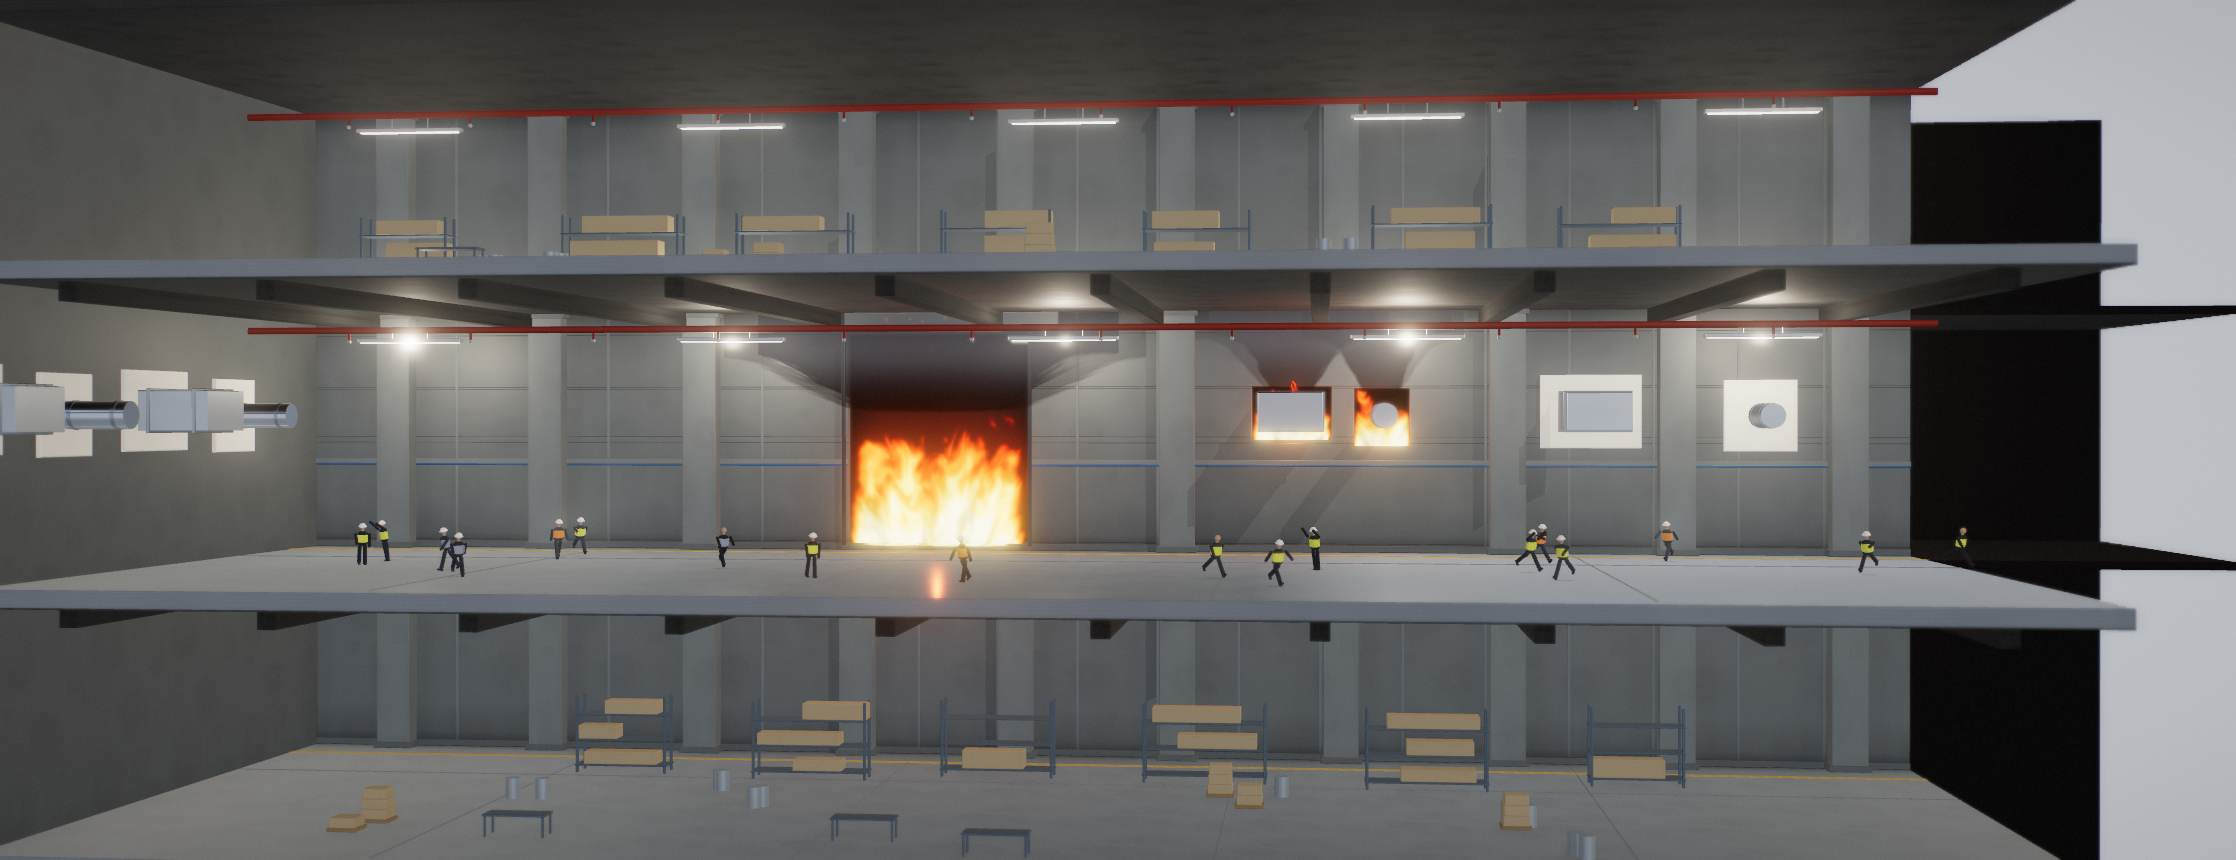
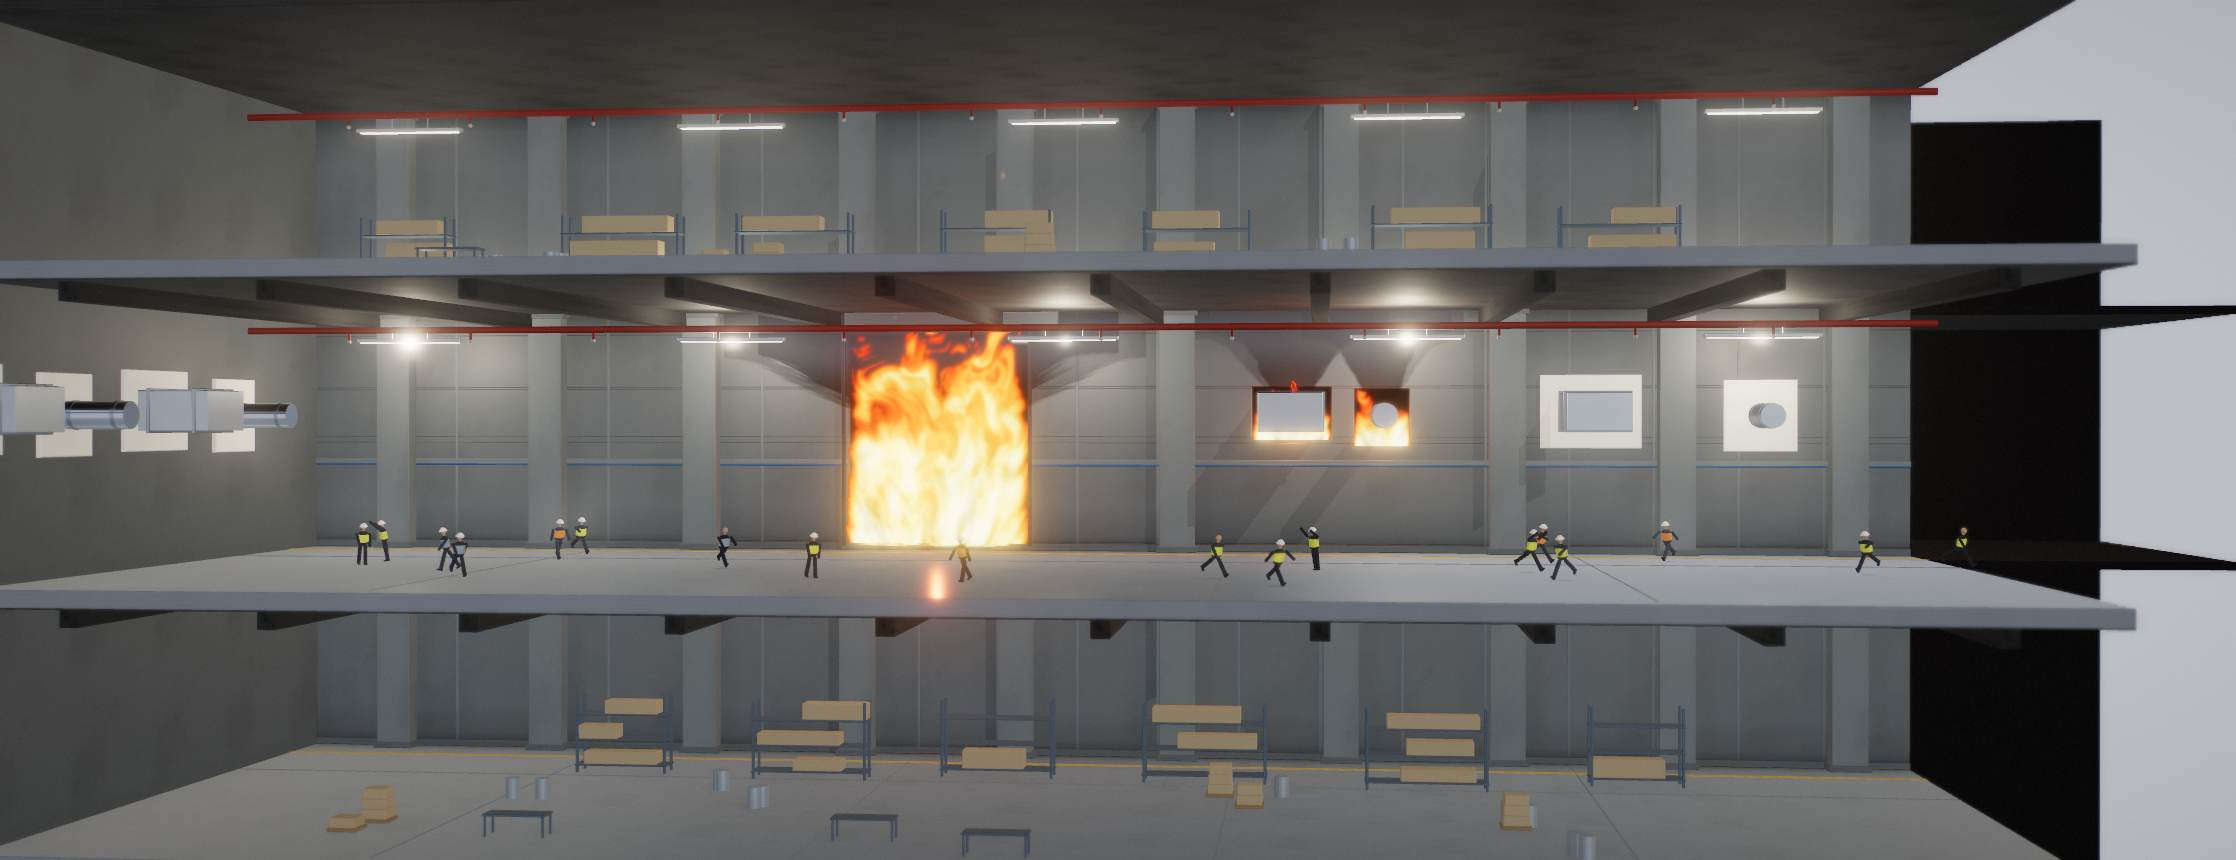
셔터 쪽 화재 규모 확대 — 개구부를 가득 채우게
사용자 요청: 셔터 있는 쪽 화재 규모만 키운다.

⚠ **boost 를 올리는 건 답이 아니다.** 뿌리에서 f 가 1 을 넘어 포화돼 전폭이 흰 띠가 되고
   결이 통째로 사라진다. 실제로 boost 1.95 로 한 번 그렇게 나왔다.

불꽃 형상 식은 f = (1-h)^taper * boost - turb * (turbA + h*turbB) 다.
"위까지 닿게" 하는 올바른 손잡이는 taper 와 turbB 다:
· taper 1.02 → 0.26 — 몸통이 높이에 따라 거의 안 줄어 위까지 남는다
· turbB 0.95 → 0.22 — 위에서 난류에 덜 깎인다
· boost 1.88 → 1.72 (오히려 낮춤), turbA 1.22 → 1.35 — 뿌리를 f≈0.95 에 묶어 결을 살린다
결과: 개구부(9.2×10.4m) 전체가 불로 차면서 뿌리는 안 탄다.

wpad 1.0 → 1.8 로 개구부 밖까지 혀가 넘치고, 화재 광원 62 → 84 로 주변 벽 반사도 키웠다.
taper/turbA/turbB 는 uniform 으로 빼서 개구부별로 따로 잡을 수 있다.

diff --git a/company-site/index.html b/company-site/index.html
@@ -21,15 +21,15 @@
 
     <link rel="icon" type="image/png" href="assets/images/doenc_mark.png">
     <!-- 히어로 첫 화면 — 화면 비율 단계별로 한 장만 받는다 (경계는 style.css / hero3d.js resize() 와 동일) -->
-    <link rel="preload" as="image" href="assets/images/hero-poster-w.jpg?v=20260805e" media="(min-aspect-ratio: 8/5)" fetchpriority="high">
-    <link rel="preload" as="image" href="assets/images/hero-poster-m.jpg?v=20260805e" media="(min-aspect-ratio: 6/5) and (max-aspect-ratio: 8/5)" fetchpriority="high">
-    <link rel="preload" as="image" href="assets/images/hero-poster-n.jpg?v=20260805e" media="(min-aspect-ratio: 4/5) and (max-aspect-ratio: 6/5)" fetchpriority="high">
-    <link rel="preload" as="image" href="assets/images/hero-poster-p.jpg?v=20260805e" media="(max-aspect-ratio: 4/5)" fetchpriority="high">
+    <link rel="preload" as="image" href="assets/images/hero-poster-w.jpg?v=20260805f" media="(min-aspect-ratio: 8/5)" fetchpriority="high">
+    <link rel="preload" as="image" href="assets/images/hero-poster-m.jpg?v=20260805f" media="(min-aspect-ratio: 6/5) and (max-aspect-ratio: 8/5)" fetchpriority="high">
+    <link rel="preload" as="image" href="assets/images/hero-poster-n.jpg?v=20260805f" media="(min-aspect-ratio: 4/5) and (max-aspect-ratio: 6/5)" fetchpriority="high">
+    <link rel="preload" as="image" href="assets/images/hero-poster-p.jpg?v=20260805f" media="(max-aspect-ratio: 4/5)" fetchpriority="high">
 
     <!-- 3D 모듈을 미리 받아둔다. 없으면 main.js → hero3d.js → three.module → three.core 로
          **네 번 순차 왕복**하느라 750KB 를 다 받을 때까지 포스터가 계속 떠 있는다.
          ⚠ href 는 실제 import 주소와 **글자 그대로 같아야** 캐시가 재사용된다(쿼리 포함). -->
-    <link rel="modulepreload" href="assets/js/hero3d.js?v=20260805e">
+    <link rel="modulepreload" href="assets/js/hero3d.js?v=20260805f">
     <link rel="modulepreload" href="assets/js/vendor/three.module.min.js">
     <link rel="modulepreload" href="assets/js/vendor/three.core.min.js">
 
@@ -76,7 +76,7 @@
     <link rel="stylesheet" href="https://cdn.jsdelivr.net/gh/orioncactus/pretendard@v1.3.9/dist/web/variable/pretendardvariable-dynamic-subset.min.css"
           media="print" onload="this.media='all'">
     <noscript><link rel="stylesheet" href="https://cdn.jsdelivr.net/gh/orioncactus/pretendard@v1.3.9/dist/web/variable/pretendardvariable-dynamic-subset.min.css"></noscript>
-    <link rel="stylesheet" href="assets/css/style.css?v=20260805e">
+    <link rel="stylesheet" href="assets/css/style.css?v=20260805f">
     <noscript><style>.reveal{opacity:1!important;transform:none!important}</style></noscript>
 </head>
 <body id="top">
@@ -178,7 +178,7 @@
         <section class="hero" id="home">
             <!-- ▼ 히어로 미디어 슬롯
                  실사 영상/사진을 받으면 아래 주석 한 줄만 살리면 도면 그래픽이 자동 교체됩니다.
-                 <video autoplay muted loop playsinline poster="assets/images/hero-poster-w.jpg?v=20260805e">
+                 <video autoplay muted loop playsinline poster="assets/images/hero-poster-w.jpg?v=20260805f">
                      <source src="assets/images/hero.mp4" type="video/mp4"></video>
                  또는  <img src="assets/images/hero.jpg" alt="">                        -->
             <div class="hero-media" id="heroMedia" aria-hidden="true">
@@ -917,14 +917,14 @@
         <a class="to-top" href="#top" aria-label="맨 위로">↑</a>
     </footer>
 
-    <script src="assets/js/main.js?v=20260805e"></script>
+    <script src="assets/js/main.js?v=20260805f"></script>
     <script type="module">
       // 히어로 3D는 첫 화면이 그려진 뒤에 불러온다 (본문 표시를 늦추지 않도록)
       var canvas = document.getElementById("hero3d");
       var host = document.getElementById("heroMedia");
       var gl = canvas && canvas.getContext && (canvas.getContext("webgl2") || canvas.getContext("webgl"));
       if (gl) {
-        import("./assets/js/hero3d.js?v=20260805e")
+        import("./assets/js/hero3d.js?v=20260805f")
           .then(function (m) { return m.initHero3D(canvas, host); })
           // 1회 재생이라 replay()로 다시 볼 수 있게 API를 전역에 둔다.
           // ⚠ window.hero3d 는 <canvas id="hero3d"> 와 이름이 겹치므로 heroFilm 을 정식 이름으로 쓴다.

diff --git a/company-site/assets/js/hero3d.js b/company-site/assets/js/hero3d.js
@@ -861,6 +861,12 @@ export async function initHero3D(canvas, host) {
     uniform vec2  uEdge;    // 좌우 감쇠 폭
     uniform float uCurl;    // 혀가 휘말리는 정도 (도메인 워프)
     uniform float uBreak;   // 위쪽에서 조각으로 끊어지는 정도
+    // ⚠ 불을 **크게** 만들 때 boost 만 올리면 안 된다. 뿌리에서 f 가 1 을 넘어 포화돼
+    //    전폭이 **흰 띠**가 되고 결이 사라진다(2차에 겪은 실패).
+    //    "더 높이 뻗는" 것은 아래 두 값이 담당한다:
+    //      uTaper — 높이에 따른 몸통 감쇠 지수. 낮출수록 위까지 몸통이 남는다.
+    //      uTurbB — 높이에 따라 난류를 빼는 양의 증가율. 낮출수록 위에서 안 깎인다.
+    uniform float uTaper, uTurbA, uTurbB;
 
     float hash(vec2 p) {
       p = fract(p * vec2(233.34, 851.73));
@@ -910,9 +916,9 @@ export async function initHero3D(canvas, host) {
 
       // 기본 형상: 뿌리는 꽉, 위로 갈수록 얇게. 좌우 가장자리도 감쇠
       float ex = smoothstep(0.0, uEdge.x, uv.x) * smoothstep(1.0, 1.0 - uEdge.y, uv.x);
-      float body = pow(max(0.0, 1.0 - h), 1.02) * ex;
+      float body = pow(max(0.0, 1.0 - h), uTaper) * ex;
 
-      float f = clamp(body * uBoost - turb * (1.22 + h * 0.95), 0.0, 1.0);
+      float f = clamp(body * uBoost - turb * (uTurbA + h * uTurbB), 0.0, 1.0);
 
       // 색 램프 — 짙은 적색 → 주황 → 노랑. 흰 심부는 아주 뜨거운 부분에만
       vec3 col = vec3(0.36, 0.04, 0.01);
@@ -967,6 +973,9 @@ export async function initHero3D(canvas, host) {
           // 앞겹일수록 크게 휘고 잘 끊어진다 — 뒤겹은 화염 덩어리의 몸통이라 안정적이어야 한다
           uCurl: { value: (cfg.curl === undefined ? 0.85 : cfg.curl) * (1 + i * 0.35) },
           uBreak: { value: (cfg.brk === undefined ? 1.0 : cfg.brk) * (1 + i * 0.25) },
+          uTaper: { value: cfg.taper === undefined ? 1.02 : cfg.taper },
+          uTurbA: { value: cfg.turbA === undefined ? 1.22 : cfg.turbA },
+          uTurbB: { value: cfg.turbB === undefined ? 0.95 : cfg.turbB },
         },
       });
       const m = new THREE.Mesh(new THREE.PlaneGeometry(w, hh, 1, 1), mat);
@@ -1661,8 +1670,19 @@ export async function initHero3D(canvas, host) {
   const rigDkt = makeFireRig(DUCT, 1.1, 0.25, 36,
     { h: 4.6, wpad: 0.5, z: [0.04, 0.5, 1.0], alpha: [0.96, 0.66, 0.4], boost: 2.02, speed: 1.75 },
     { bottom: DUCT.y + 0.7, h: smokeH(DUCT.y + 0.7), wpad: 4.2, z: [0.28, 0.9], alpha: [0.56, 0.36], density: 3.1, speed: 0.52, narrow: 0.13, flare: 0.5, ceil: 0.72, ceilSpread: 0.9 });
-  const rigBig = makeFireRig(BIG, 2.4, 0.0, 62,
-    { h: 12.0, wpad: 1.0, z: [0.04, 0.75, 1.6], alpha: [0.97, 0.7, 0.44], boost: 1.88, speed: 1.5 },
+  // 셔터 개구부(9.2×10.4m)는 이 필름의 주역이다. 불이 개구부 아래쪽에만 깔려 있으면
+  // "큰 개구부를 막는다"는 규모가 안 산다 → **개구부를 가득 채우도록** 키웠다.
+  // ⚠ boost 로 키우면 뿌리가 흰 띠가 된다. taper 를 낮춰 위까지 몸통을 남기고,
+  //    turbB 를 낮춰 위에서 난류에 깎이지 않게 하는 게 '높이'를 만드는 올바른 손잡이다.
+  const rigBig = makeFireRig(BIG, 3.1, 0.0, 84,
+    // ⚠ **"개구부를 채운다"와 "뿌리가 안 탄다"는 서로 당긴다.**
+    //    body = (1-h)^taper 라 위로 갈수록 몸통이 줄고, 난류는 그대로 빼가므로
+    //    위까지 불이 닿게 하려면 boost 를 올려야 하는데 그러면 뿌리가 f=1 로 포화된다.
+    //    → boost 를 올리는 대신 **taper 를 아주 낮춰(0.26) 몸통이 위까지 안 줄게** 하고,
+    //      turbB 를 낮춰 위에서 덜 깎이게 한다. 그러면 낮은 boost 로도 개구부가 채워지고
+    //      뿌리는 f≈0.95 에 머물러 결이 살아 있다.
+    { h: 12.0, wpad: 1.8, z: [0.04, 0.75, 1.6], alpha: [0.97, 0.72, 0.48], boost: 1.72, speed: 1.5,
+      taper: 0.26, turbA: 1.35, turbB: 0.22 },
     // 셔터 개구부는 크고 화재층 와이드에서 주역이라 연기를 가장 짙고 넓게
     { bottom: BIG.y + 1.2, h: smokeH(BIG.y + 1.2), wpad: 9.0, z: [0.4, 1.4], alpha: [0.72, 0.5], density: 3.4, speed: 0.42, narrow: 0.26, flare: 0.62, ceil: 0.66, ceilSpread: 1.5 });
 

diff --git a/company-site/assets/css/style.css b/company-site/assets/css/style.css
@@ -258,11 +258,11 @@ svg { display: block; width: 100%; height: auto; }
 .hero-media {
     position: absolute; inset: 0; overflow: hidden;
     background: #83786f center center / auto 100% no-repeat;
-    background-image: url("../images/hero-poster-p.jpg?v=20260805e");           /*        a < 0.8 */
+    background-image: url("../images/hero-poster-p.jpg?v=20260805f");           /*        a < 0.8 */
 }
-@media (min-aspect-ratio: 4/5) { .hero-media { background-image: url("../images/hero-poster-n.jpg?v=20260805e"); } }  /* 0.8 <= a < 1.2 */
-@media (min-aspect-ratio: 6/5) { .hero-media { background-image: url("../images/hero-poster-m.jpg?v=20260805e"); } }  /* 1.2 <= a < 1.6 */
-@media (min-aspect-ratio: 8/5) { .hero-media { background-image: url("../images/hero-poster-w.jpg?v=20260805e"); } }  /* 1.6 <= a       */
+@media (min-aspect-ratio: 4/5) { .hero-media { background-image: url("../images/hero-poster-n.jpg?v=20260805f"); } }  /* 0.8 <= a < 1.2 */
+@media (min-aspect-ratio: 6/5) { .hero-media { background-image: url("../images/hero-poster-m.jpg?v=20260805f"); } }  /* 1.2 <= a < 1.6 */
+@media (min-aspect-ratio: 8/5) { .hero-media { background-image: url("../images/hero-poster-w.jpg?v=20260805f"); } }  /* 1.6 <= a       */
 
 /* 사실적 3D 캔버스 — 준비되면 폴백 위로 나타난다.
    포스터가 곧 같은 프레임이므로 길게 겹칠 이유가 없다 — 짧게 넘겨야 갈아타는 게 안 보인다 */

diff --git a/company-site/archive.html b/company-site/archive.html
@@ -37,7 +37,7 @@
     <link rel="stylesheet" href="https://cdn.jsdelivr.net/gh/orioncactus/pretendard@v1.3.9/dist/web/variable/pretendardvariable-dynamic-subset.min.css"
           media="print" onload="this.media='all'">
     <noscript><link rel="stylesheet" href="https://cdn.jsdelivr.net/gh/orioncactus/pretendard@v1.3.9/dist/web/variable/pretendardvariable-dynamic-subset.min.css"></noscript>
-    <link rel="stylesheet" href="assets/css/style.css?v=20260805e">
+    <link rel="stylesheet" href="assets/css/style.css?v=20260805f">
     <noscript><style>.reveal{opacity:1!important;transform:none!important}</style></noscript>
 </head>
 <body id="top">
@@ -198,8 +198,8 @@
         </div>
     </div>
 
-    <script src="assets/js/main.js?v=20260805e"></script>
-    <script src="assets/js/pages.js?v=20260805e"></script>
+    <script src="assets/js/main.js?v=20260805f"></script>
+    <script src="assets/js/pages.js?v=20260805f"></script>
     <script>
       DOENC.initArchive();
     </script>

diff --git a/company-site/support.html b/company-site/support.html
@@ -37,7 +37,7 @@
     <link rel="stylesheet" href="https://cdn.jsdelivr.net/gh/orioncactus/pretendard@v1.3.9/dist/web/variable/pretendardvariable-dynamic-subset.min.css"
           media="print" onload="this.media='all'">
     <noscript><link rel="stylesheet" href="https://cdn.jsdelivr.net/gh/orioncactus/pretendard@v1.3.9/dist/web/variable/pretendardvariable-dynamic-subset.min.css"></noscript>
-    <link rel="stylesheet" href="assets/css/style.css?v=20260805e">
+    <link rel="stylesheet" href="assets/css/style.css?v=20260805f">
     <noscript><style>.reveal{opacity:1!important;transform:none!important}</style></noscript>
 </head>
 <body id="top">
@@ -198,8 +198,8 @@
         </div>
     </div>
 
-    <script src="assets/js/main.js?v=20260805e"></script>
-    <script src="assets/js/pages.js?v=20260805e"></script>
+    <script src="assets/js/main.js?v=20260805f"></script>
+    <script src="assets/js/pages.js?v=20260805f"></script>
     <script>
       DOENC.initSupport();
     </script>

diff --git a/company-site/about.html b/company-site/about.html
@@ -37,7 +37,7 @@
     <link rel="stylesheet" href="https://cdn.jsdelivr.net/gh/orioncactus/pretendard@v1.3.9/dist/web/variable/pretendardvariable-dynamic-subset.min.css"
           media="print" onload="this.media='all'">
     <noscript><link rel="stylesheet" href="https://cdn.jsdelivr.net/gh/orioncactus/pretendard@v1.3.9/dist/web/variable/pretendardvariable-dynamic-subset.min.css"></noscript>
-    <link rel="stylesheet" href="assets/css/style.css?v=20260805e">
+    <link rel="stylesheet" href="assets/css/style.css?v=20260805f">
     <noscript><style>.reveal{opacity:1!important;transform:none!important}</style></noscript>
 </head>
 <body id="top">
@@ -545,7 +545,7 @@
         </div>
     </div>
 
-    <script src="assets/js/main.js?v=20260805e"></script>
-    <script src="assets/js/pages.js?v=20260805e"></script>
+    <script src="assets/js/main.js?v=20260805f"></script>
+    <script src="assets/js/pages.js?v=20260805f"></script>
 </body>
 </html>
